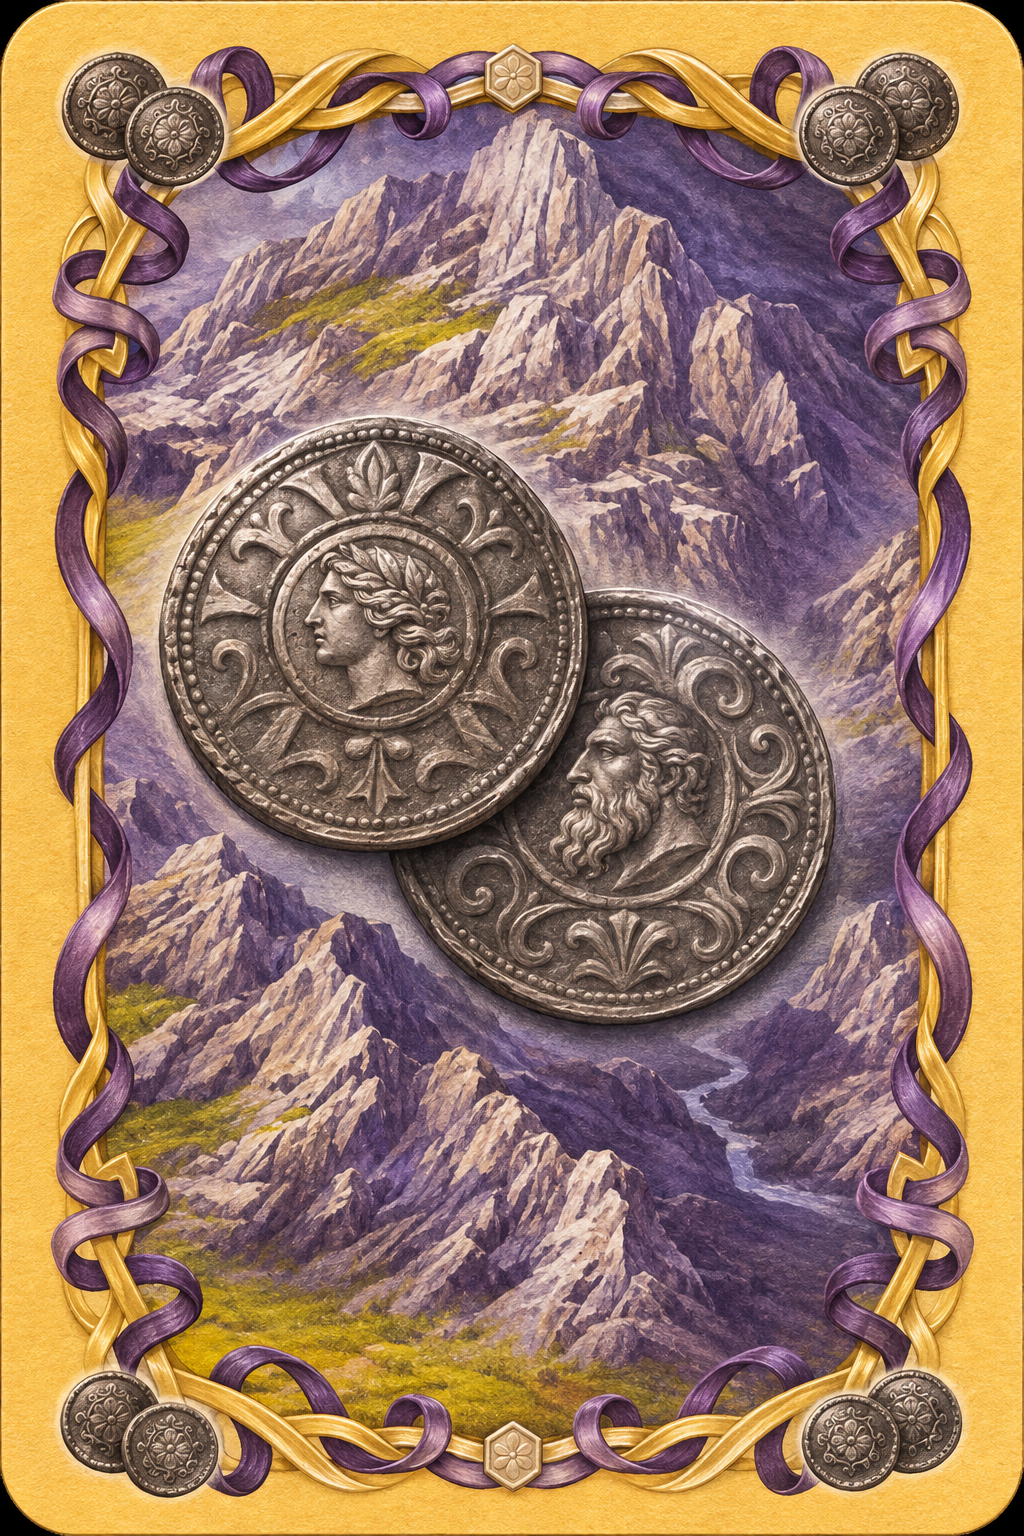
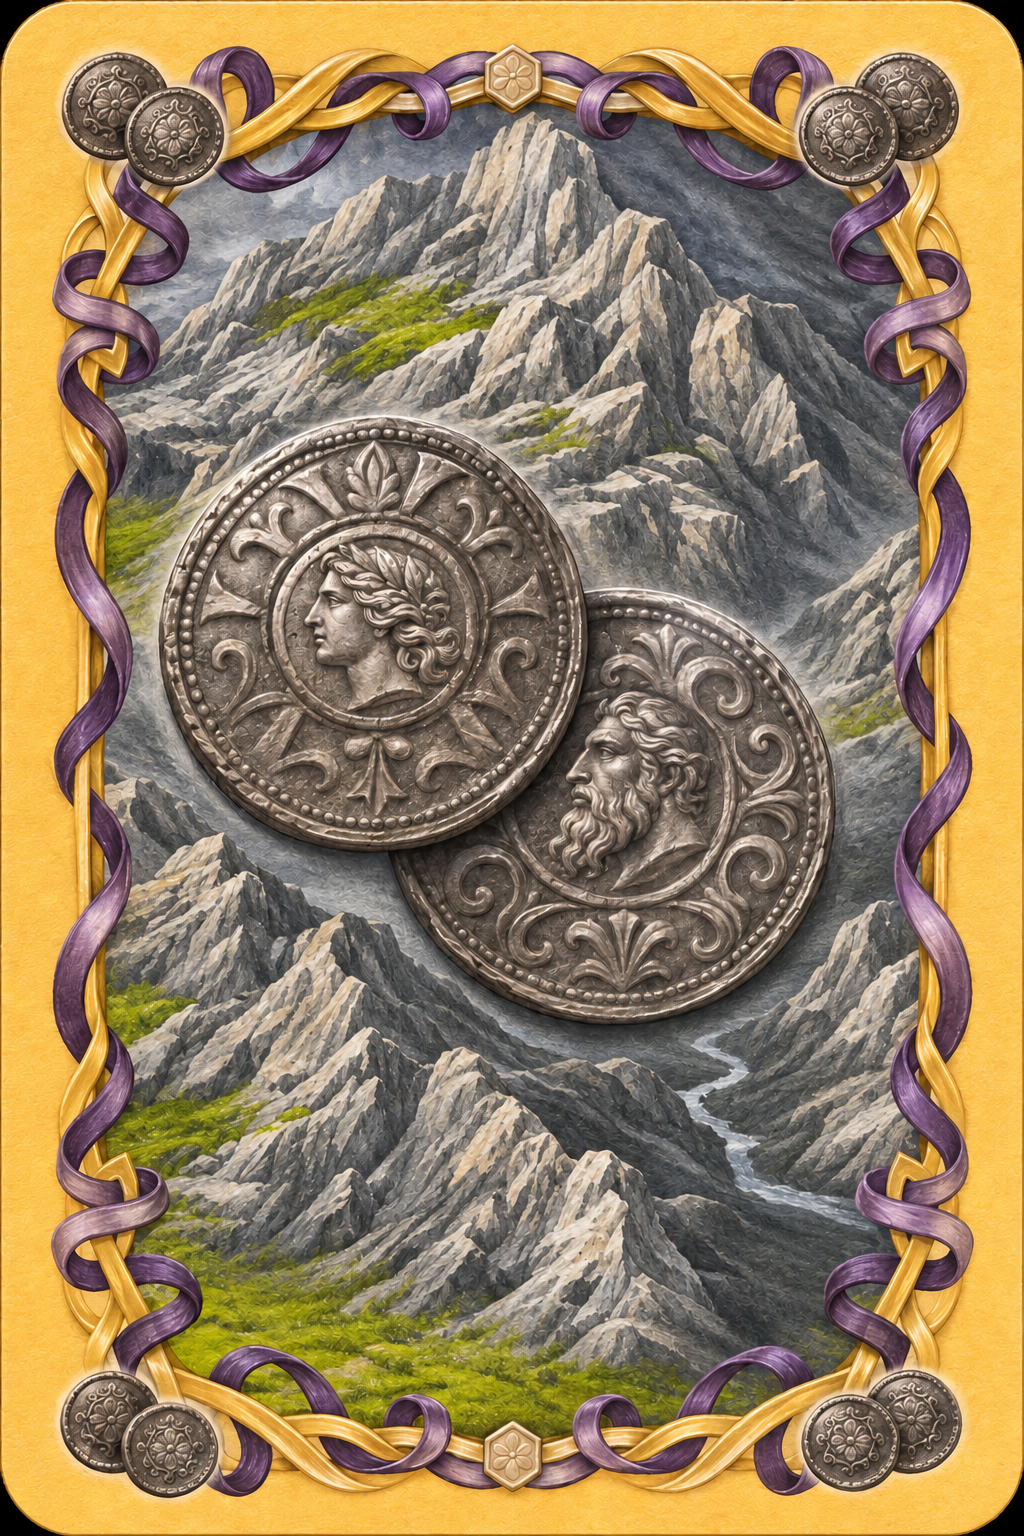
调整银币商品牌山体为自然岩灰色

Changed region(s): [[0.0625, 0.0312, 0.9375, 0.9688]]

diff --git a/The Farmer's Log.md b/The Farmer's Log.md
@@ -1,5 +1,9 @@
 # 农场主手记
 
+## 2026-11-04 — 银币商品牌山体校色
+
+Luna 将银币背后的山体重绘为自然灰岩，紫色只用于缠绕金带的丝带。已替换游戏贴图并覆盖 2.1.8 双端构建。Windows 商品牌预览和手牌缩略图已复核，Android ARM64 安装包通过签名验证。[游戏截图](docs/verification/card-redraw-218-20261103/cards-6.png)
+
 ## 2026-11-03 — 2.1.8发展牌与商品牌统一重绘
 
 - 用户指定Luna完成25种扩展发展牌、5种基础发展牌、3种商品牌重绘；统一纸面与印刷质感，保留原版构图，中文文字由游戏绘制。
